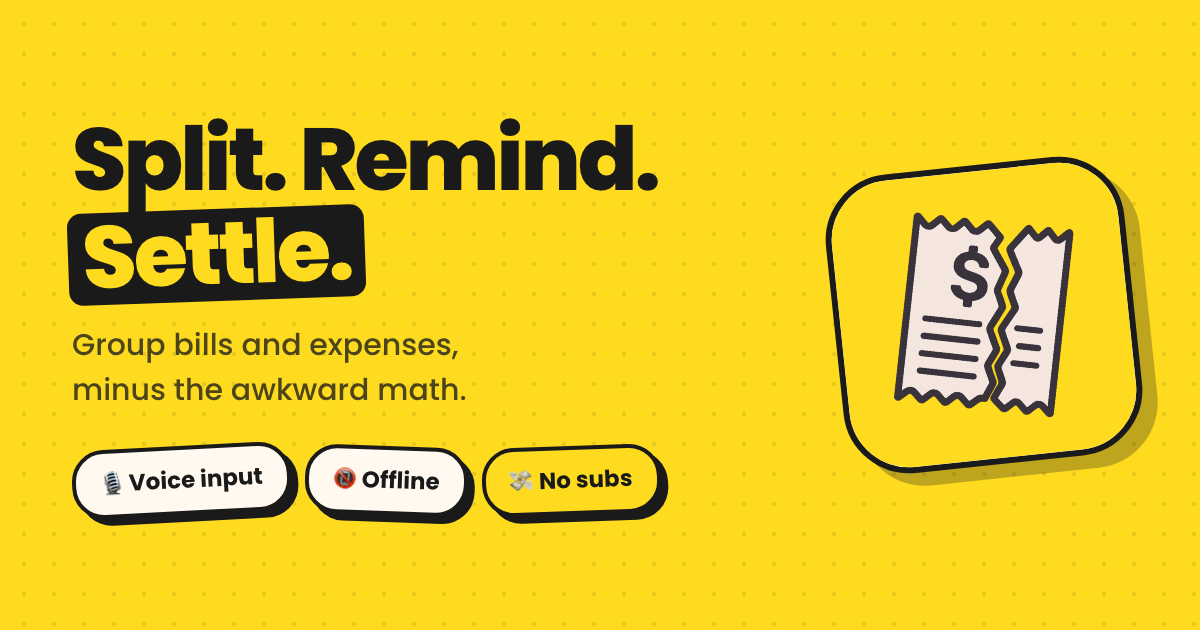
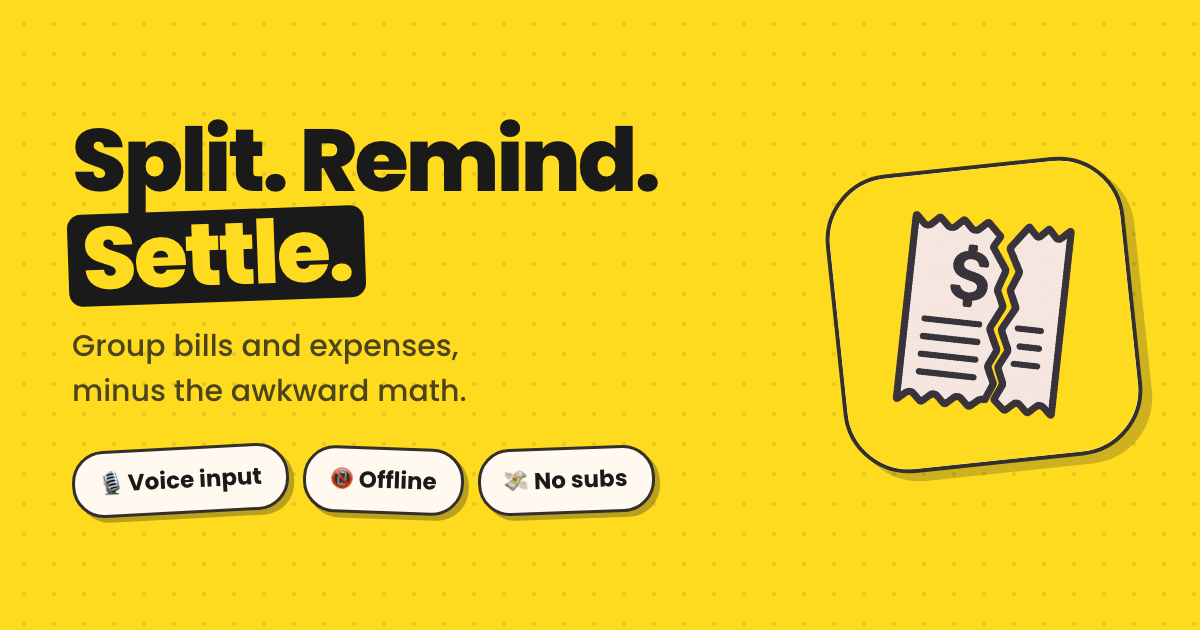
Refactor styles for OG image and update sticker classes for consistency

diff --git a/assets/og-src/og.html b/assets/og-src/og.html
@@ -9,9 +9,9 @@
   h1 mark{display:inline-block;padding:0 .16em .02em;border-radius:14px;background:#1a1a1a;color:#ffdb1f;transform:rotate(-2deg)}
   p{margin-top:22px;font-size:30px;font-weight:500;color:rgba(26,26,26,.78)}
   .row{display:flex;gap:14px;margin-top:34px}
-  .s{display:inline-flex;align-items:center;gap:9px;padding:13px 24px;border:4px solid #1a1a1a;border-radius:32px;background:#fff9f0;box-shadow:7px 7px 0 #1a1a1a;font-size:23px;font-weight:700}
-  .s:nth-child(1){transform:rotate(-3deg)}.s:nth-child(2){transform:rotate(2deg)}.s:nth-child(3){transform:rotate(-2deg);background:#ffdb1f}
-  .mark{position:absolute;right:66px;top:50%;transform:translateY(-50%) rotate(-6deg);width:300px;height:300px;border:6px solid #1a1a1a;border-radius:66px;box-shadow:14px 14px 0 rgba(26,26,26,.28);overflow:hidden;background:#fff}
+  .s{display:inline-flex;align-items:center;gap:9px;padding:13px 24px;border:3px solid #33302b;border-radius:32px;background:#fff9f0;box-shadow:5px 5px 0 rgba(26,26,26,.30);font-size:23px;font-weight:700}
+  .s:nth-child(1){transform:rotate(-3deg)}.s:nth-child(2){transform:rotate(2deg)}.s:nth-child(3){transform:rotate(-2deg)}
+  .mark{position:absolute;right:66px;top:50%;transform:translateY(-50%) rotate(-6deg);width:300px;height:300px;border:4px solid #33302b;border-radius:66px;box-shadow:9px 9px 0 rgba(26,26,26,.22);overflow:hidden;background:#fff}
   .mark img{width:100%;height:100%;object-fit:cover}
 </style></head><body>
 <div class="dots"></div>

diff --git a/index.html b/index.html
@@ -114,7 +114,7 @@
       <h1 class="h1">Split. Remind.<br><mark>Settle.</mark></h1>
       <p class="lede">Group bills and expenses, minus the awkward math.</p>
       <div class="hero-stickers">
-        <span class="sticker sticker-yellow"><span class="emoji">🎙</span>Voice input</span>
+        <span class="sticker"><span class="emoji">🎙</span>Voice input</span>
         <span class="sticker"><span class="emoji">📵</span>Works offline</span>
         <span class="sticker"><span class="emoji">💸</span>No subscriptions</span>
       </div>

diff --git a/style.css b/style.css
@@ -267,8 +267,6 @@ mark {
   transform: rotate(var(--r, calc(var(--tilt) * -1)));
 }
 .sticker .emoji { font-size: 1.25em; line-height: 1; }
-.sticker-yellow { background: var(--yellow); }
-.sticker-ink { background: var(--ink); color: #fff; }
 
 .kicker {
   display: inline-flex;
